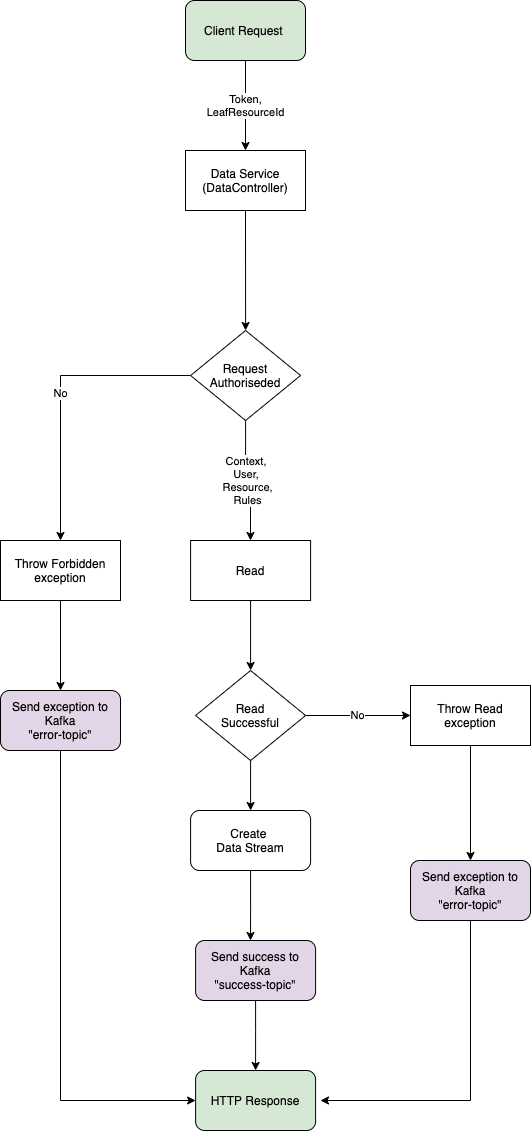
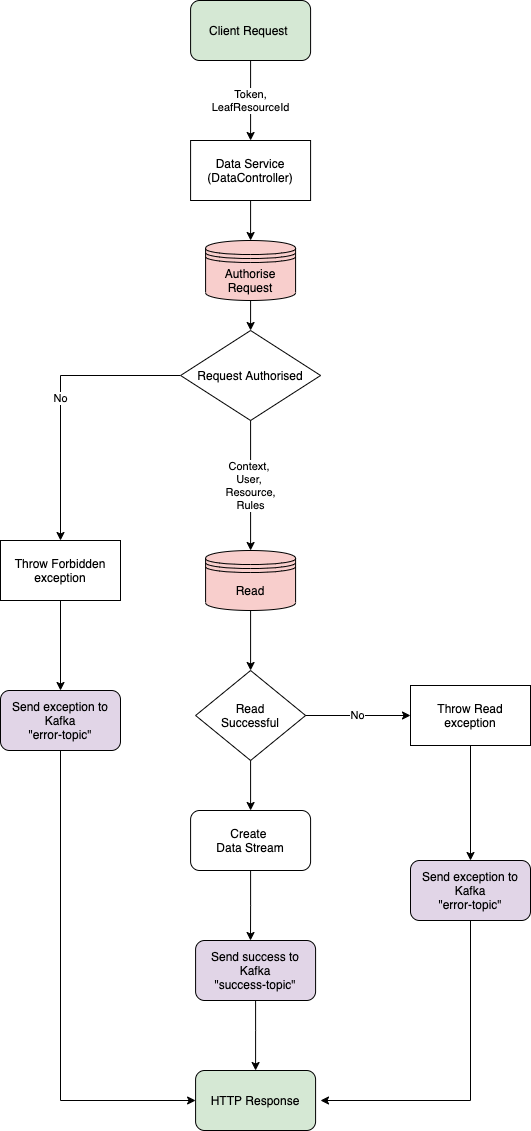
PAL-874-Data-Service-update-documentation: changes to readme and diagram

diff --git a/data-service/README.md b/data-service/README.md
@@ -29,7 +29,7 @@ This is then wrapped in a class, [AuditableDataService](src/main/java/uk/gov/gch
 
 ![Data Service diagram](doc/data-service.png)
 
-Data Service is implemented as a RESTFul Request-Response service using a Spring Controller ([DataController](src/main/java/uk/gov/gchq/palisade/service/data/web/DataController.java)) as the service endpoint.
+The Data Service is implemented as a RESTFul service using a Spring Controller ([DataController](src/main/java/uk/gov/gchq/palisade/service/data/web/DataController.java)) as the service endpoint.
 The processing of each client request will drive the workflow though the service.
 This will start with authorising the request ([DataService.authoriseReqeust](src/main/java/uk/gov/gchq/palisade/service/data/service/DataService.java)).
 If successful, the next step will be to read the data ([DataService.read](src/main/java/uk/gov/gchq/palisade/service/data/service/DataService.java)) which will return a stream of the data to the client.
